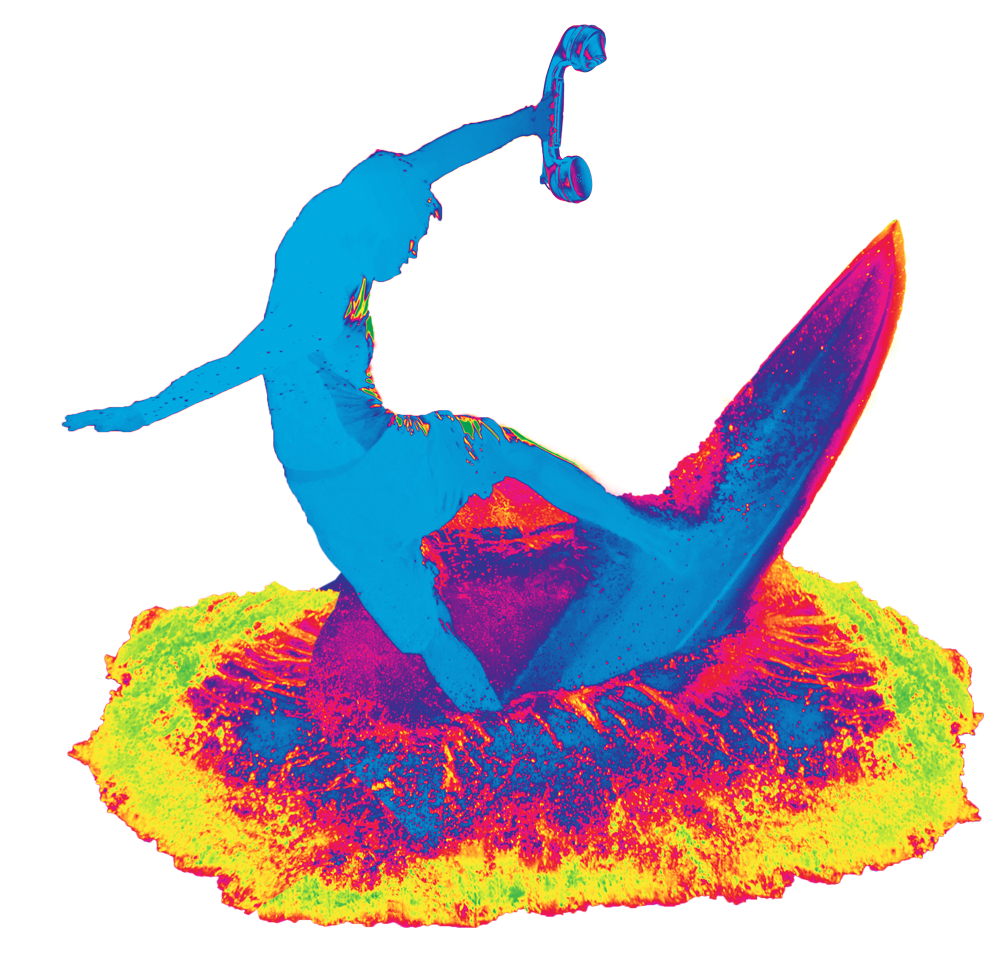
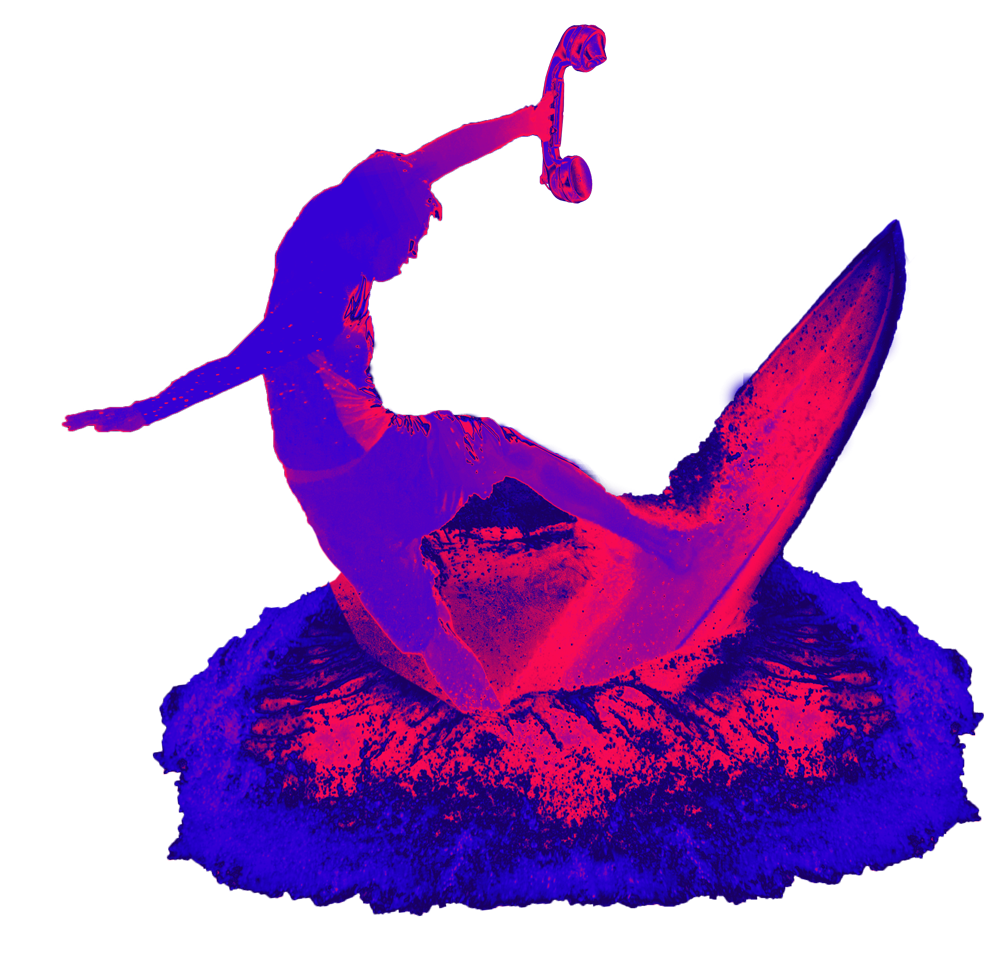
edits

diff --git a/index.html b/index.html
@@ -114,7 +114,7 @@
 				</div>
 
 				<div class="fadeInDown sm-hide dark-square"></div>
-				<img class="fadeInUp-2 hero-surfer" src="img/hero-surfer.png">
+				<img class="fadeInUp-2 hero-surfer" src="img/hero-surfer-2.png">
 				<!-- <img class="md-hide sm-hide fadeInUp-2 hero-phone" src="img/hero-phone-gradient.png"> -->
 				<img class="fadeInUp code-circle-large code-circle-large--hero" src="img/code-hex-large.png">
 				<img class="sm-hide lg-hide fadeInDown-2 code-circle-large code-circle-large-2" src="img/code-hex-large.png">
@@ -518,7 +518,7 @@
 				<div class="row">
 
 					<div class="lg-col-5 lg-offset-1 md-col-5 md-offset-1 sm-col-4 lg-mt-80 md-mt-80 sm-mt-80">
-						<img class="location-imgs" src="img/location-beach-view.jpg">
+						<img class="location-imgs" src="img/location-birds-eye-view-2.jpg">
 						<br><br>
 						<h3 class="pink-text">Location</h3>
 						<p>After last year’s success, KAZOOcon is back in San Diego at the Bahia Resort Hotel. Located on a 14-acre peninsula on the west shore of Mission Bay, the resort is just 8 miles from downtown San Diego and less than a 15 minute drive from San Diego International Airport.</p>
@@ -532,10 +532,10 @@
 					</div>
 
 					<div class="lg-col-5 lg-offset-1 md-col-5 md-offset-1 sm-col-4 lg-mt-80 md-mt-100 sm-mt-80">
-						<img class="location-imgs" src="img/location-birds-eye-view-2.jpg">
+						<img class="location-imgs" src="img/location-beach-view.jpg">
 						<br><br>
 						<h3 class="pink-text">Venue</h3>
-						<p>The Bahia Resort Hotel is San Diego’s premier beachfront destination boasting lush tropical gardens and miles of sandy beaches. Along with beautiful views of Mission Bay, there are plentiful options for both fun and relaxation including a junior Olympic size swimming pool, Whirlpool, tropical garden retreat, fitness center, tennis courts, arcade, and water sport rentals.</p>
+						<p>The Bahia Resort Hotel is San Diego’s premier beachfront destination boasting lush tropical gardens and miles of sandy beaches. Along with beautiful views of Mission Bay, there are plentiful options for both fun and relaxation including a junior olympic size swimming pool, whirlpool, tropical garden retreat, fitness center, tennis courts, arcade, and water sport rentals.</p>
 					</div>
 
 				</div>
